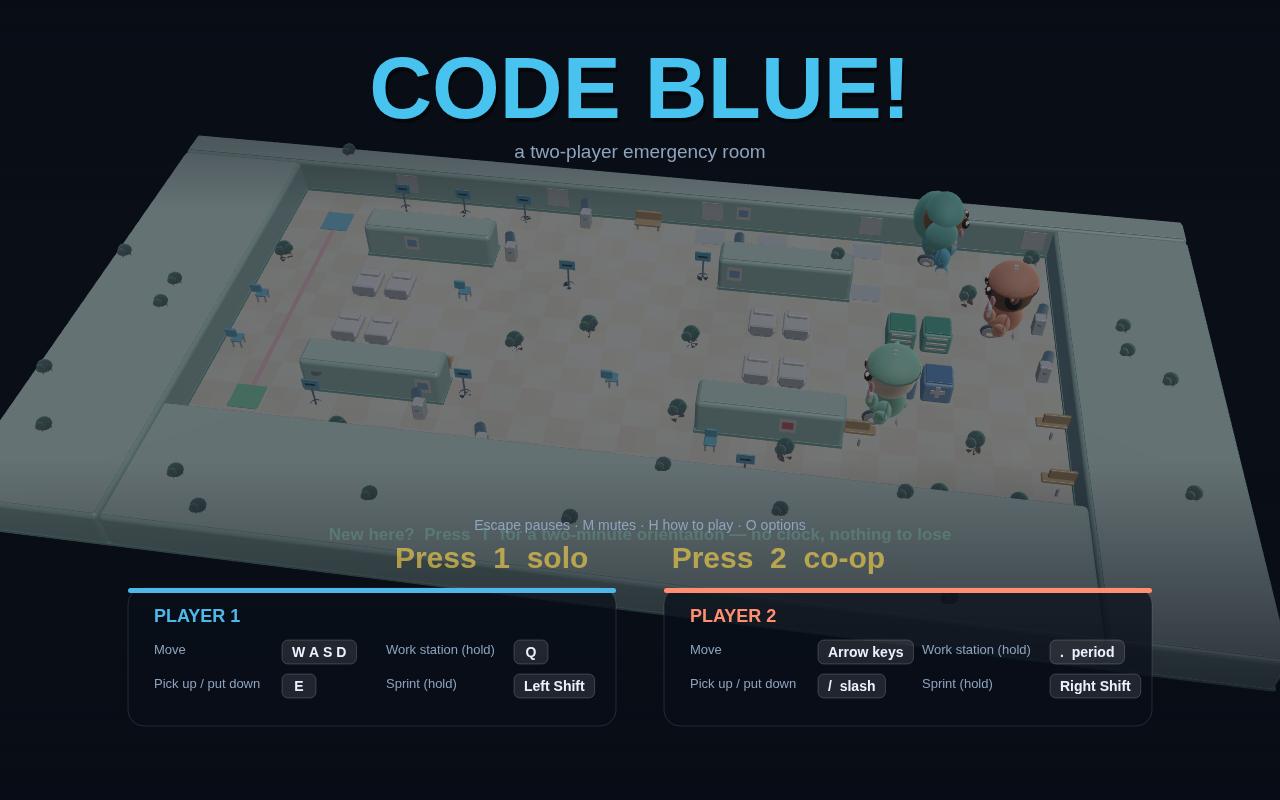
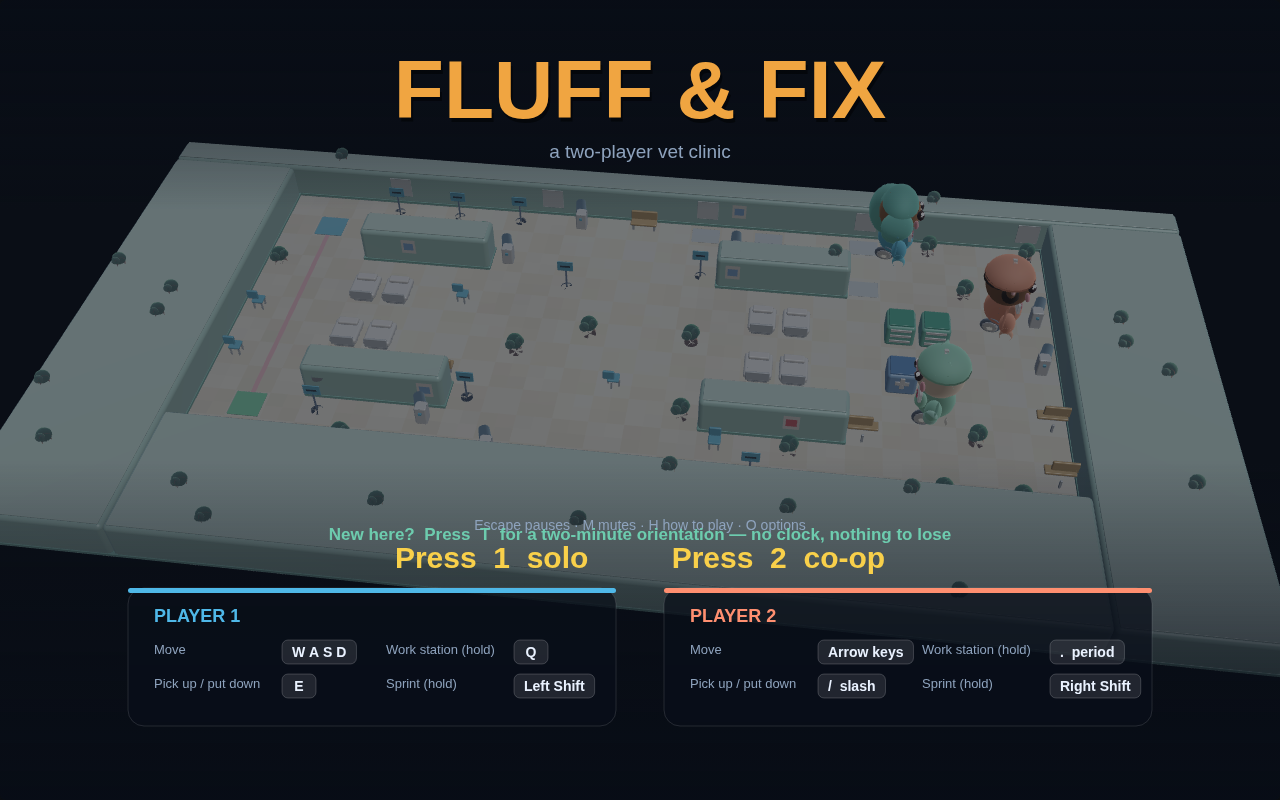
Final audit pass: the red cross, the HUD collision, and the last strings
Three findings worth naming.

THE RED CROSS. Every nurse wore one on their chest. That is wrong for a vet
clinic and, more to the point, it should not have shipped from the hospital
build either: the emblem is protected under the Geneva Conventions and its
commercial use is restricted in most of the countries this would sell in. It is
a paw print now — sized and coloured on the second attempt, because pale pink
on a near-white patch vanished at any distance.

THE HUD COLLIDED WITH ITSELF. "Sent home 5   Trotted off 0" is a good deal
wider than the "Treated / Lost" it replaced, and it ran straight into the
dirty-basket indicator that sat at a hard-coded +150. Both now live in one
hudCounters() built from a measured width, so the three call sites cannot drift
apart again.

TWO STRINGS THE SWEEP COULD NOT SEE. "Turn over bay" is assembled inline in a
conditional rather than stored in a table, and the arrivals countdown read
"AMB 10s". Neither is reachable from the live tables the vocabulary audit walks,
which is a real limit of that check worth knowing: it covers everything
declared, not everything concatenated.

Also tidied the results screen — "Trotted off in a huff", "Send 14 animals
home", "Sort out 3 sticky situation cases" — and replaced the last two hospital
props: the IV pole is a scratching post, the gurney is a stack of pet carriers.
Same footprints, so no room's layout moved.

Asset pack rebuilt against the clinic and the stale hospital-named files
[…]

diff --git a/index.html b/index.html
@@ -2910,19 +2910,19 @@ function challengeText(c) {
   const n = challengeN(c);
   switch (c.k) {
     case "chain":    return "Reach a chain of x" + n;
-    case "treat":    return "Treat " + n + " animals";
+    case "treat":    return "Send " + n + " animals home";
     case "perfect":  return n + " perfect send-offs";
     case "clutch":   return n + " clutch saves";
-    case "ailment":  return "Treat " + n + " " + AILMENTS[c.a].name.toLowerCase() + " cases";
+    case "ailment":  return "Sort out " + n + " " + AILMENTS[c.a].name.toLowerCase() + " cases";
   }
   switch (c.k) {
     case "noloss":   return "Everyone goes home happy";
     case "maxlives": return "Nobody trots off home";
     case "chain":    return "Reach a chain of x" + c.n;
-    case "treat":    return "Treat " + c.n + " animals";
+    case "treat":    return "Send " + c.n + " animals home";
     case "perfect":  return c.n + " perfect send-offs";
     case "clutch":   return c.n + " clutch saves";
-    case "ailment":  return "Treat " + c.n + " " + AILMENTS[c.a].name.toLowerCase() + " cases";
+    case "ailment":  return "Sort out " + c.n + " " + AILMENTS[c.a].name.toLowerCase() + " cases";
   }
   return "?";
 }
@@ -4044,7 +4044,7 @@ function updatePlayer(p, dt) {
     p.promptE = previewInteract(p);
     const job = findJob(p);
     p.promptQ = job ? job.label
-              : (cleanableBed(world, p) ? "Turn over bay"
+              : (cleanableBed(world, p) ? "Change the basket"
               : (p.item ? "Throw"
               : (!p.patient && spillAt(p.x, p.y) ? "Mop up" : null)));
     SILENT_HINTS = false;
@@ -7016,13 +7016,23 @@ function drawCharacter3D(o) {
       drawMesh(MESH.boxSoft, p[0], p[1], p[2], ry, 0.015*S, 0.058*S, 0.018*S,
                rgb(look.trim || "#ffffff"));
     } else {
-      // staff badge as a felt appliqué: a stitched patch with a cross on it
+      /* Staff badge as a felt appliqué: a stitched patch with a PAW on it.
+         It was a red cross, which is wrong for a vet clinic twice over — the
+         emblem is protected under the Geneva Conventions and its commercial
+         use is restricted in most of the countries this would sell in, so it
+         is not something to ship on a nurse's chest regardless of theme. */
       p = P(0, TY + 0.045, 0.235);
       drawMesh(MESH.boxSoft, p[0], p[1], p[2], ry, 0.105*S, 0.105*S, 0.028*S,
                rgb("#fdfdff"));
-      p = P(0, TY + 0.045, 0.262);
-      drawMesh(MESH.boxSoft, p[0], p[1], p[2], ry, 0.028*S, 0.072*S, 0.012*S, rgb("#ff7a86"));
-      drawMesh(MESH.boxSoft, p[0], p[1], p[2], ry, 0.072*S, 0.028*S, 0.012*S, rgb("#ff7a86"));
+      // sized and coloured to actually read against a near-white patch: the
+      // first attempt was pale pink on white and vanished at any distance
+      const paw = rgb("#e0566f");
+      p = P(0, TY + 0.020, 0.274);
+      drawMesh(MESH.sphereLo, p[0], p[1], p[2], ry, 0.052*S, 0.044*S, 0.012*S, paw);
+      for (const [ox, oy] of [[-0.052, 0.068], [-0.018, 0.088], [0.018, 0.088], [0.052, 0.068]]) {
+        const q = P(ox, TY + oy, 0.274);
+        drawMesh(MESH.sphereLo, q[0], q[1], q[2], ry, 0.020*S, 0.023*S, 0.011*S, paw);
+      }
       // stitch dots around the patch edge
       for (const [dx, dy] of _charDetail
             ? [[-1,-1],[1,-1],[-1,1],[1,1],[0,-1],[0,1],[-1,0],[1,0]] : []) {
@@ -8617,15 +8627,23 @@ function hudCard(g, x, y, w, h, label) {
 
 /** Baskets out of action. Turns amber then red as the ward silts up, because a
     player needs to feel the turnover debt before it strands them. */
-function hudDirtyBaskets(g, x, y) {
+/** The one running-totals line, drawn as a unit.
+    "Sent home 5   Trotted off 0" is a good deal wider than the "Treated / Lost"
+    it replaced, and it ran straight into the basket indicator that used to sit
+    at a hard-coded +150. Both live here now, measured, on the single row the
+    card has space for. */
+function hudCounters(g, bx) {
   const n = dirtyBedCount();
+  const left = "Sent home " + Game.treated + "   Trotted off " + Game.lost;
+  g.font = 'bold 11.5px "Trebuchet MS", "Segoe UI", sans-serif';
+  text(g, left, bx + 12, 72, 11.5, PALETTE.dim);
   if (!n) return;
   const total = Game.world ? Game.world.beds.length : 1;
   const frac = n / Math.max(1, total);
   const col = frac > 0.55 ? PALETTE.bad : (frac > 0.28 ? PALETTE.warn : PALETTE.dim);
   g.save();
   if (frac > 0.55) g.globalAlpha = 0.6 + 0.4 * Math.sin(performance.now() / 160);
-  text(g, "↻ " + n + " bay" + (n === 1 ? "" : "s"), x, y, 12, col);
+  text(g, "↻ " + n, bx + 20 + g.measureText(left).width, 72, 11.5, col);
   g.restore();
 }
 
@@ -8664,7 +8682,7 @@ function drawHUD(g) {
     text(g, "SURVIVED", 128, 70, 11, PALETTE.dim);
     text(g, "WAVE " + Game.wave, 128, 52, 12, PALETTE.warn);
     if (Game.waveTimer < 12)
-      text(g, "AMB " + Math.ceil(Game.waveTimer) + "s", 190, 52, 12, "#ff9a6a");
+      text(g, "VAN " + Math.ceil(Game.waveTimer) + "s", 190, 52, 12, "#ff9a6a");
   } else {
     const remain = Math.max(0, lvl.duration - Game.time);
     const urgent = remain < 30;
@@ -8674,7 +8692,7 @@ function drawHUD(g) {
     text(g, "TIME", 122, 70, 11, PALETTE.dim);
     if (Game.wave > 0) text(g, "WAVE " + Game.wave, 122, 52, 12, PALETTE.warn);
     if (Game.waveTimer < 12 && remain > Game.waveTimer)
-      text(g, "AMB " + Math.ceil(Game.waveTimer) + "s", 178, 52, 12, "#ff9a6a");
+      text(g, "VAN " + Math.ceil(Game.waveTimer) + "s", 178, 52, 12, "#ff9a6a");
   }
 
   // --- lives: as many hearts as this run actually has ---
@@ -8721,8 +8739,7 @@ function drawHUD(g) {
   if (Game.builderMode || (lvl && lvl.builder)) {
     hudCard(g, bx, 10, 250, HUD_H - 22, "WAVE " + (Game.builder ? Game.builder.wave : 1));
     text(g, "Best wave  " + (Game.builderBest || "—"), bx + 12, 52, 16, "#6fd3b4");
-    text(g, "Sent home " + Game.treated + "   Trotted off " + Game.lost, bx + 12, 74, 12, PALETTE.dim);
-    hudDirtyBaskets(g, bx + 150, 74);
+    hudCounters(g, bx);
   } else if (isTut) {
     hudCard(g, bx, 10, 250, HUD_H - 22, "ORIENTATION");
     text(g, "Nothing here can be failed.", bx + 12, 52, 13, "#6fd3b4", "left", "normal");
@@ -8730,8 +8747,7 @@ function drawHUD(g) {
   } else if (Game.endless) {
     hudCard(g, bx, 10, 250, HUD_H - 22, "PERSONAL BEST");
     text(g, String(Game.endlessBest), bx + 12, 52, 26, "#ffd54a");
-    text(g, "Sent home " + Game.treated + "   Trotted off " + Game.lost, bx + 12, 74, 12, PALETTE.dim);
-    hudDirtyBaskets(g, bx + 150, 74);
+    hudCounters(g, bx);
   } else {
     hudCard(g, bx, 10, 250, HUD_H - 22, "TARGETS");
     const tgts = starTargets(Game.levelIndex);
@@ -8742,8 +8758,7 @@ function drawHUD(g) {
       drawStar(g, sx + 9, 46, 10, hit ? "#ffd54a" : "rgba(255,255,255,.15)");
       text(g, String(th), sx + 23, 51, 13, hit ? PALETTE.text : PALETTE.dim);
     }
-    text(g, "Sent home " + Game.treated + "   Trotted off " + Game.lost, bx + 12, 74, 12, PALETTE.dim);
-    hudDirtyBaskets(g, bx + 150, 74);
+    hudCounters(g, bx);
   }
 
   text(g, (Sound.muted ? "M  muted" : "M  sound") + (Music.on ? "  ·  N  music" : "  ·  N  off"), W - 20, 26, 11, PALETTE.dim, "right");
@@ -10179,13 +10194,13 @@ function drawResults(g) {
 
   const stats = r.builder ? [
     ["Animals sent home", String(r.treated)],
-    ["Trotted off home", String(r.lost)],
+    ["Trotted off in a huff", String(r.lost)],
     ["Credits earned", String(r.spent || 0)],
     ["Things built", String(r.built || 0)],
     ["Staff hired", String(r.staff || 0)]
   ] : [
     ["Animals sent home", String(r.treated)],
-    ["Trotted off home", String(r.lost)],
+    ["Trotted off in a huff", String(r.lost)],
     ["Best chain", "x" + (r.bestCombo || 0)],
     ["Perfect send-offs", String(r.perfects || 0)],
     ["Clutch saves", String(r.clutches || 0)]
